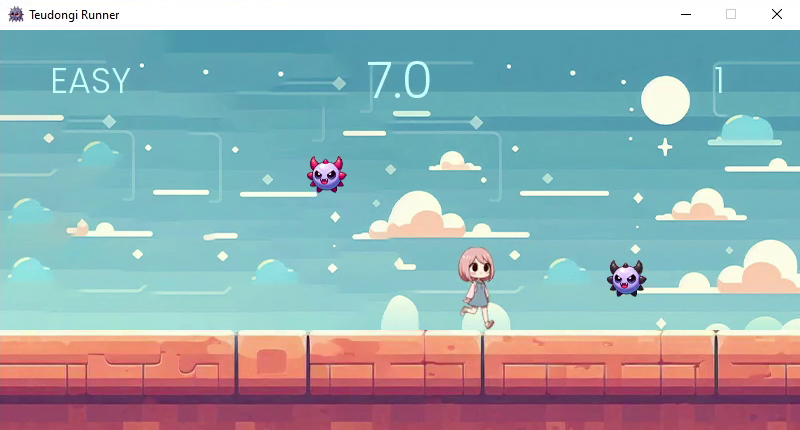
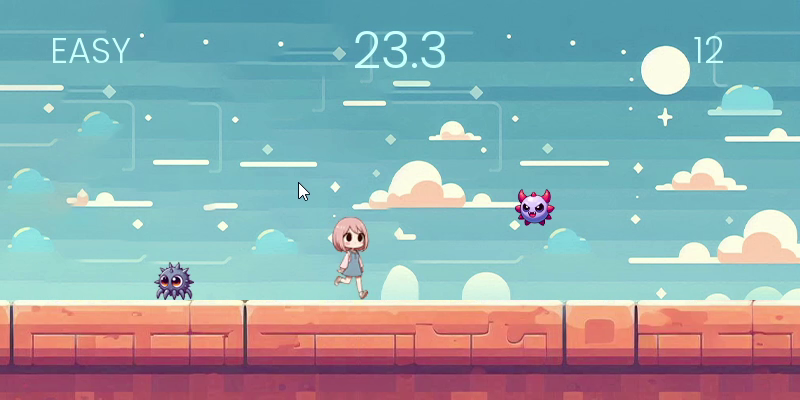
update fix

diff --git a/nami_runner.py b/nami_runner.py
@@ -28,7 +28,7 @@ class Player(pygame.sprite.Sprite):
 
     def player_input(self):
         keys = pygame.key.get_pressed()
-        if (keys[pygame.K_SPACE] or keys[pygame.K_UP] or keys[pygame.K_w] or (joysticks and (joysticks[0].get_button(0) or joysticks[0].get_hat(0)[1] > 0))) and self.rect.bottom >= 300:
+        if (keys[pygame.K_SPACE] or keys[pygame.K_UP] or keys[pygame.K_w] or (joysticks and (joysticks[0].get_button(0) or joysticks[0].get_hat(0)[1] > 0)))and self.rect.bottom >= 300:
             self.gravity = -20
             self.jump_sound.play()
 
@@ -71,7 +71,7 @@ class Obstacle(pygame.sprite.Sprite):
             self.frames = [snail_1, snail_2]
             self.y_pos_baseline = 300
             y_pos = self.y_pos_baseline
-            self.special = [not bool(random.randint(0,6))]
+            self.special = [not bool(random.randint(0,6))] #0: vermelho >=1: normal
             if self.special[0]: self.special.append(random.randint(450, 650))
         else:
             fly_1 = pygame.image.load(str(Path('graphics/miney.png'))).convert_alpha()
@@ -80,6 +80,11 @@ class Obstacle(pygame.sprite.Sprite):
             fly_4 = pygame.image.load(str(Path('graphics/miney4.png'))).convert_alpha()
             self.frames = [fly_1, fly_2, fly_3, fly_4]
             self.y_pos_baseline = 201
+            self.special = [random.randint(0,8)] #0: black 1: fast >=2: normal
+            if self.special[0] <= 2: 
+                self.special.append(random.randint(550, 700))
+                if self.special[0] == 0:
+                    self.release_time = 100
             y_pos = self.y_pos_baseline - random.randint(-15, 50)
             self.up_down = random.choice([1, -1])
         
@@ -93,9 +98,17 @@ class Obstacle(pygame.sprite.Sprite):
             if self.special[0]:
                 self.image=self.frames[1]
             return
-        else:
-            self.animation_index += 0.05
-        if int(self.animation_index) >= len(self.frames): 
+        if self.special[0] == 1:
+            self.image=self.frames[2]
+            return
+        if self.special[0] == 0:
+            if self.rect.x < self.special[1] and self.release_time > 0:
+                self.release_time -=1
+                self.animation_index += 0.1
+            if self.release_time <= 0:
+                self.image = self.frames[3]
+                return
+        if int(self.animation_index) >= 2: 
             self.animation_index = 0
         self.image = self.frames[int(self.animation_index)]
 
@@ -104,6 +117,19 @@ class Obstacle(pygame.sprite.Sprite):
         current_vel = obstacle_vel if obstacle_vel < obstacle_max_vel else obstacle_max_vel
         if self.type and self.special[0] and self.rect.x < self.special[1]:
             current_vel *= 2.1
+        
+        if not self.type and self.special[0] == 1:
+            current_vel *= 1.4
+
+        if not self.type: 
+            if self.special[0] == 0: 
+                if self.rect.x < self.special[1]:
+                    current_vel = 0
+                if self.release_time <= 0:
+                    current_vel = obstacle_vel if obstacle_vel < obstacle_max_vel else obstacle_max_vel
+                    self.up_down = 0
+                    current_vel *= 2
+
         self.rect.x -= current_vel
         if self.type:
             pass
@@ -147,26 +173,40 @@ def collision_sprites():
         return True
     return False
     
-def show_highscore_list():
-    output= ''
-    easy_output = '\n'.join([f'{score[0]} {score[1]}'for score in gamedata["highscore"]["easy"] if score[0] and score[1]])
-    normal_output = '\n'.join([f'{score[0]} {score[1]}'for score in gamedata["highscore"]["normal"] if score[0] and score[1]])
-    hard_output = '\n'.join([f'{score[0]} {score[1]}'for score in gamedata["highscore"]["hard"] if score[0] and score[1]])
-    if easy_output: output+= 'Easy:\n' + easy_output
-    if normal_output: output+= '\nNormal:\n' + normal_output
-    if hard_output: output+= '\nHard:\n' + hard_output
-    if not output: output = 'Vazio'
-    messagebox.showinfo(title='Highscore', message=output)
+def show_highscore_list(diff):
+    return[f'{score[0]/1000:0.1f} {score[1].lower()[:10]}'for score in gamedata["highscore"][diff] if score[0]][:5]
+
+
+def highscore_screen(screen):
+    
+    screen.fill(third_color)
+    # if gamedata["highscore"][current_difficulty][0][0] == current_score: newrecord = '!!!'
+    # else: newrecord = ''
+    highscore_title_surf = main_font.render('HIGHSCORES', True, second_color)
+    highscore_title_rect = highscore_title_surf.get_rect(center = (400, 150))
+    screen.blit(highscore_title_surf, highscore_title_rect)
+    # screen.blit(yourscore_surf, yourscore_rect)
+
+    screen.blit(setts, setts_rect)
+    if setts_rect.collidepoint(pygame.mouse.get_pos()) and pygame.mouse.get_pressed()[0]:
+        return False
+    return True
+    # screen.blit(highscore_icon, highscore_icon_rect)
+    # if highscore_icon_rect.collidepoint(pygame.mouse.get_pos()) and pygame.mouse.get_pressed()[0]:
+        # show_highscore_list()
+        # screen.fill(main_color)
 
 def settings():  
     def update_entries():
         entry_obstacle_start_vel.delete(0, 'end')
         entry_obstacle_acel.delete(0, 'end')
         entry_obstacle_max_vel.delete(0, 'end')
+        entry_nome.delete(0, 'end')
 
         entry_obstacle_start_vel.insert(0, obstacle_start_vel)
         entry_obstacle_acel.insert(0, obstacle_acel)
         entry_obstacle_max_vel.insert(0, obstacle_max_vel)
+        entry_nome.insert(0, player_name)
 
     def update_difficulty():
         var_difficulty.set(difficulty_name.index(difficulty))
@@ -241,10 +281,26 @@ def settings():
         difficulty = difficulty_name[int(var_difficulty.get())]
         gamedata["difficulty"] = difficulty
 
+    def change_name():
+        global player_name, gamedata
+        player_name = entry_nome.get()
+        gamedata["name"] = player_name
+        update_entries()
+        messagebox.showinfo(title='Nome', message=f'Nome alterado para {player_name}!')
 
     janela = Tk()
     janela.title('Settings')
     janela.iconbitmap(str(Path("graphics/setts_icon.ico")))
+    
+    frame_nome = Frame(janela, bd=15)
+    label_nome = Label(frame_nome, text=" Alterar Nome:")
+    entry_nome = Entry(frame_nome)
+    button_nome = Button(frame_nome, text="Inserir Nome", command=change_name)
+
+    frame_nome.pack()
+    label_nome.pack(padx=5, pady=5)
+    entry_nome.pack(padx=5, pady=5)
+    button_nome.pack(padx=5, pady=5)
     
     framevel = Frame(janela, bd=15)
     framevel.pack()
@@ -307,7 +363,7 @@ def settings():
     var = IntVar()
 
     songbutton1 = Radiobutton(framesongs, text='Street Race at Dawn', variable=var, value=0, command=selectsong)
-    songbutton2 = Radiobutton(framesongs, text='Gathering the Dew', variable=var, value=1, command=selectsong)
+    songbutton2 = Radiobutton(framesongs, text='Dew Gathering', variable=var, value=1, command=selectsong)
     songbutton3 = Radiobutton(framesongs, text='Cryptic Puzzle', variable=var, value=2, command=selectsong)
     songbutton4 = Radiobutton(framesongs, text="None", variable=var, value=3, command=selectsong)
 
@@ -328,8 +384,6 @@ def settings():
 
     janela.mainloop()
 
-
-
 pygame.init()
 pygame.joystick.init()
 joysticks = []
@@ -348,15 +402,24 @@ count_font = pygame.font.Font(fonte2, 35)
 main_color = (230, 126, 163)
 second_color = (254, 254, 254)
 third_color = (200, 254, 254)
+highscore_title_font = pygame.font.Font(fonte1, 50)
+highscore_diff_titles_font = pygame.font.Font(fonte2, 40)
+highscore_results_font = pygame.font.Font(fonte2, 30)
+player_name_font = highscore_results_font = pygame.font.Font(fonte2, 20)
 
 setts = pygame.image.load(str(Path('graphics/setts.png'))).convert_alpha()
 setts_rect = setts.get_rect(topleft=(715, 320))
+
+arrow = pygame.image.load(str(Path('graphics/arrow.png'))).convert_alpha()
+arrow_rect = arrow.get_rect(bottomright=(85, 80))
+
 
 highscore_icon = pygame.image.load(str(Path('graphics/highscore.png'))).convert_alpha()
 highscore_icon_rect = highscore_icon.get_rect(topright=(85, 320))
 
 game_active = False
 start_time = 0
+restart = False
 
 gamedata = {'highscore':{'easy': [[0, '']],
                          'normal': [[0, '']],
@@ -366,11 +429,12 @@ gamedata = {'highscore':{'easy': [[0, '']],
                 'obstacle_acel': 0.003,
                 'obstacle_max_vel': 16},
             'music': 1,
-            'volume': 3,
-            'difficulty': "normal"
+            'volume': 0.3,
+            'difficulty': "normal",
+            'name': ''
             }
 songslist = [str(Path('audio/Street Race at Dawn.mp3')),
-            str(Path('audio/Gathering the Dew.mp3')),
+            str(Path('audio/Dew Gathering.mp3')),
             str(Path('audio/Cryptic Puzzle.mp3'))]
 
 #Groups
@@ -384,7 +448,9 @@ ground_cord = 0
 
 jumps = 0
 just_start = True
+in_highscore = False
 odd_enemy = 2
+
 
 if not Path('gamedata.json').exists():
     with open('gamedata.json', 'w') as hs_file:
@@ -392,6 +458,13 @@ if not Path('gamedata.json').exists():
 
 with open(Path('gamedata.json'), 'r') as hs_file:
     gamedata = json.load(hs_file)
+
+player_name = gamedata["name"]
+if not player_name:
+    player_name = simpledialog.askstring('Nome', '\tDigite o seu nome (Até 10 caracteres)\t')
+    if not player_name: player_name = ''
+    gamedata["name"] = player_name
+
 
 obstacle_start_vel = gamedata['datasettings']['obstacle_start_vel']
 obstacle_acel = gamedata['datasettings']['obstacle_acel']
@@ -427,9 +500,12 @@ while True:
             joysticks.clear()
             joysticks.append(joy)
 
-        if not game_active and  ((event.type == pygame.KEYDOWN and event.key == pygame.K_RETURN) or (joysticks and joysticks[0].get_button(7))):
+        if not in_highscore and not game_active and  ((event.type == pygame.KEYDOWN and event.key == pygame.K_RETURN) or (joysticks and joysticks[0].get_button(7))):
             start_time = pygame.time.get_ticks()
             game_active = True
+
+        # if (event.type == pygame.KEYDOWN and event.key == pygame.K_x):
+        #     restart = True
 
         if game_active and event.type == obstacle_timer and pygame.time.get_ticks() - 1000 > start_time:
             # Type == True: Snail
@@ -443,7 +519,7 @@ while True:
             if obstacle_vel < 24: pygame.time.set_timer(obstacle_timer, start_tick - int(obstacle_vel) * 70)
             else: pygame.time.set_timer(obstacle_timer, start_tick - 24 * 70)
         
-    if game_active:
+    if game_active and not in_highscore:
 
         speed_up()
 
@@ -463,15 +539,11 @@ while True:
         obstacle_group.update()
 
         if collision_sprites():
+            restart = False
             ground_cord=0
             game_active = False
             current_score = pygame.time.get_ticks() - start_time
             current_difficulty = difficulty
-            if current_score > gamedata['highscore'][difficulty][0][0]:
-                player_name = simpledialog.askstring('HIGHSCORE', '\tDigite o seu nome (Até 10 caracteres)\t')
-                if not player_name: player_name = ''
-            else:
-                player_name = ''
             gamedata['highscore'][difficulty].append([current_score, player_name])
             gamedata['highscore'][difficulty] = sorted(gamedata['highscore'][difficulty], key=operator.itemgetter(0), reverse=True)
             jumps = 0
@@ -483,39 +555,98 @@ while True:
 
     else:
         
-        player.add(Player())
-        if just_start:
+        if in_highscore:
             screen.fill(main_color)
-            screen.blit(pygame.image.load(str(Path("graphics/nami_stand.png"))).convert_alpha(), (381,217))
-            start_surf = main_font.render('PRESS ENTER TO START', True, second_color)
-            start_rect = start_surf.get_rect(center = (400, 150))
-            screen.blit(start_surf, start_rect)
+            highscore_title_surf = highscore_title_font.render('HIGHSCORES', True, second_color)
+            highscore_title_rect = highscore_title_surf.get_rect(center = (400, 50))
+            
+            easy_surf = highscore_diff_titles_font.render('EASY', True, second_color)
+            easy_rect = easy_surf.get_rect(center = (150, 120))
+            
+            normal_surf = highscore_diff_titles_font.render('NORMAL', True, second_color)
+            normal_rect = normal_surf.get_rect(center = (400, 120))
+            
+            hard_surf = highscore_diff_titles_font.render('HARD', True, second_color)
+            hard_rect = hard_surf.get_rect(center = (650, 120))
+            
+            cord = 190
+            for result in show_highscore_list("easy"):
+                easy_result_surf = highscore_results_font.render(result, True, second_color)
+                easy_result_rect = easy_result_surf.get_rect(center = (150, cord))
+                screen.blit(easy_result_surf, easy_result_rect)
+                cord += 40
+                
+            cord = 190
+            for result in show_highscore_list("normal"):
+                normal_result_surf = highscore_results_font.render(result, True, second_color)
+                normal_result_rect = normal_result_surf.get_rect(center = (400, cord))
+                screen.blit(normal_result_surf, normal_result_rect)
+                cord += 40
+            
+            cord = 190
+            for result in show_highscore_list("hard"):
+                hard_result_surf = highscore_results_font.render(result, True, second_color)
+                hard_result_rect = hard_result_surf.get_rect(center = (650, cord))
+                screen.blit(hard_result_surf, hard_result_rect)
+                cord += 40
 
-            screen.blit(setts, setts_rect)
-            if setts_rect.collidepoint(pygame.mouse.get_pos()) and pygame.mouse.get_pressed()[0]:
-                settings()
-            screen.blit(highscore_icon, highscore_icon_rect)
-            if highscore_icon_rect.collidepoint(pygame.mouse.get_pos()) and pygame.mouse.get_pressed()[0]:
-                show_highscore_list()
+            screen.blit(arrow, arrow_rect)
+            screen.blit(highscore_title_surf, highscore_title_rect)
+            screen.blit(easy_surf, easy_rect)
+            screen.blit(normal_surf, normal_rect)
+            screen.blit(hard_surf, hard_rect)
+
+            if arrow_rect.collidepoint(pygame.mouse.get_pos()) and pygame.mouse.get_pressed()[0]:
+                in_highscore = False
         else:
-            screen.fill(main_color)
-            if gamedata["highscore"][current_difficulty][0][0] == current_score: newrecord = '!!!'
-            else: newrecord = ''
-            yourscore_surf = main_font.render(f'YOUR SCORE: {current_score/1000:0.1f} {newrecord}', True, second_color)
-            yourscore_rect = yourscore_surf.get_rect(center = (400, 150))
-            highscore_surf = third_font.render(
-                f'HIGHSCORE: {current_difficulty.upper()} {gamedata["highscore"][current_difficulty][0][0]/1000:0.1f} {gamedata['highscore'][current_difficulty][0][1].upper()[:10]}' if gamedata['highscore'][current_difficulty][0][0] else '',
-                True, second_color)
-            highscore_rect = highscore_surf.get_rect(center = (400, 250))
-            screen.blit(highscore_surf, highscore_rect)
-            screen.blit(yourscore_surf, yourscore_rect)
+            player.add(Player())
+            if just_start:
+                screen.fill(main_color)
+                screen.blit(pygame.image.load(str(Path("graphics/nami_stand.png"))).convert_alpha(), (381,217))
+                
+                player_name_surf = player_name_font.render(f'{player_name[:10].lower()}', True, second_color)
+                player_name_rect = player_name_surf.get_rect(midright = (785, 27))
+                screen.blit(player_name_surf, player_name_rect)
+                
+                start_surf = main_font.render('PRESS ENTER TO START', True, second_color)
+                start_rect = start_surf.get_rect(center = (400, 150))
+                screen.blit(start_surf, start_rect)
 
-            screen.blit(setts, setts_rect)
-            if setts_rect.collidepoint(pygame.mouse.get_pos()) and pygame.mouse.get_pressed()[0]:
-                settings()
-            screen.blit(highscore_icon, highscore_icon_rect)
-            if highscore_icon_rect.collidepoint(pygame.mouse.get_pos()) and pygame.mouse.get_pressed()[0]:
-                show_highscore_list()
+                screen.blit(setts, setts_rect)
+                if setts_rect.collidepoint(pygame.mouse.get_pos()) and pygame.mouse.get_pressed()[0]:
+                    settings()
+                screen.blit(highscore_icon, highscore_icon_rect)
+                if highscore_icon_rect.collidepoint(pygame.mouse.get_pos()) and pygame.mouse.get_pressed()[0]:
+                    in_highscore = True
+            else:
+                screen.fill(main_color)
+                if gamedata["highscore"][current_difficulty][0][0] == current_score: newrecord = '!!!'
+                else: newrecord = ''
+                
+                player_name_surf = player_name_font.render(f'{player_name[:10].lower()}', True, second_color)
+                player_name_rect = player_name_surf.get_rect(midright = (785, 27))
+                screen.blit(player_name_surf, player_name_rect)
+                
+                yourscore_surf = main_font.render(f'YOUR SCORE: {current_score/1000:0.1f} {newrecord}', True, second_color)
+                yourscore_rect = yourscore_surf.get_rect(center = (400, 125))
+
+                highscore_surf1 = third_font.render('HIGHSCORE:', True, second_color)
+                highscore_surf2 = third_font.render(
+                    f'{current_difficulty.upper()} {gamedata["highscore"][current_difficulty][0][0]/1000:0.1f} {gamedata['highscore'][current_difficulty][0][1].upper()[:10]}' if gamedata['highscore'][current_difficulty][0][0] else '',
+                    True, second_color)
+                highscore_rect1 = highscore_surf1.get_rect(center = (400, 225))
+                highscore_rect2 = highscore_surf2.get_rect(center = (400, 275))
+                screen.blit(highscore_surf1, highscore_rect1)
+                screen.blit(highscore_surf2, highscore_rect2)
+                screen.blit(yourscore_surf, yourscore_rect)
+
+                screen.blit(setts, setts_rect)
+                if setts_rect.collidepoint(pygame.mouse.get_pos()) and pygame.mouse.get_pressed()[0]:
+                    settings()
+                screen.blit(highscore_icon, highscore_icon_rect)
+                if highscore_icon_rect.collidepoint(pygame.mouse.get_pos()) and pygame.mouse.get_pressed()[0]:
+                    in_highscore = True
+                
             
         obstacle_vel = obstacle_start_vel
     
